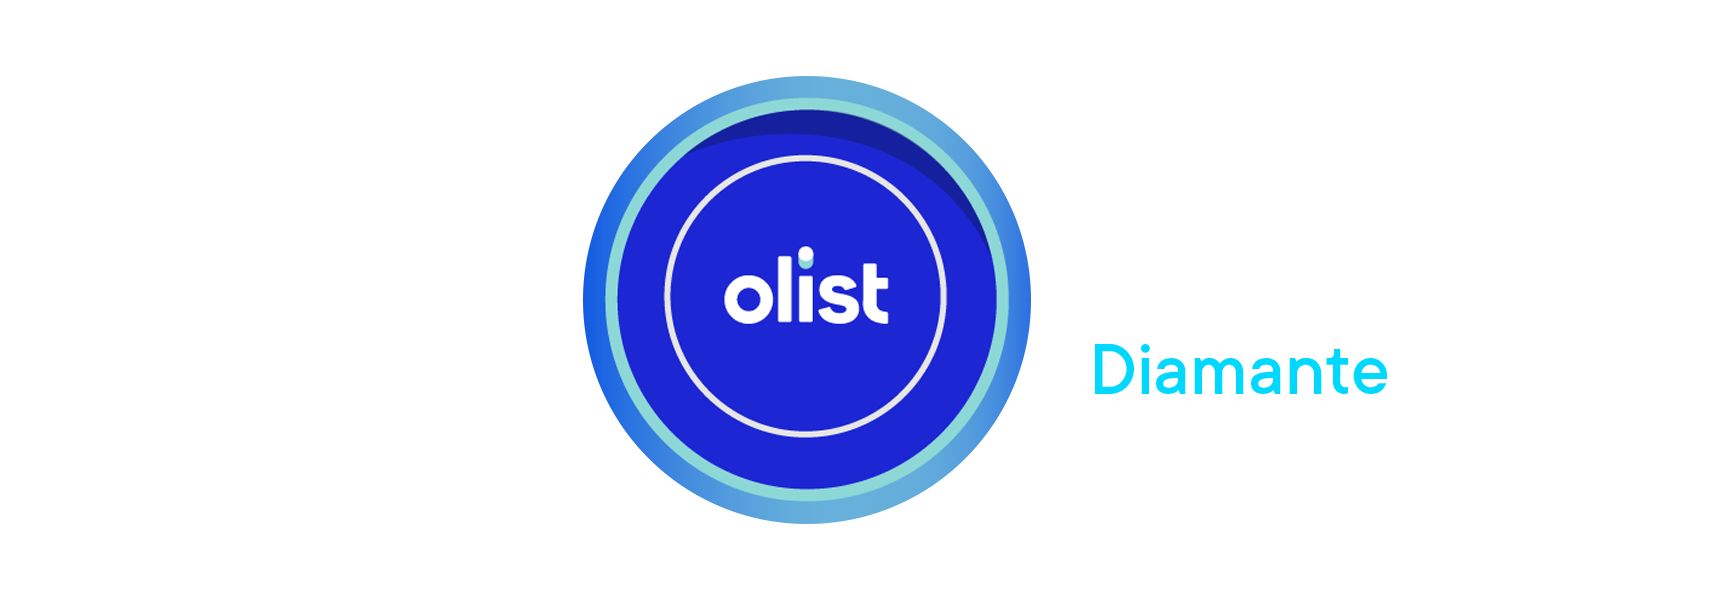
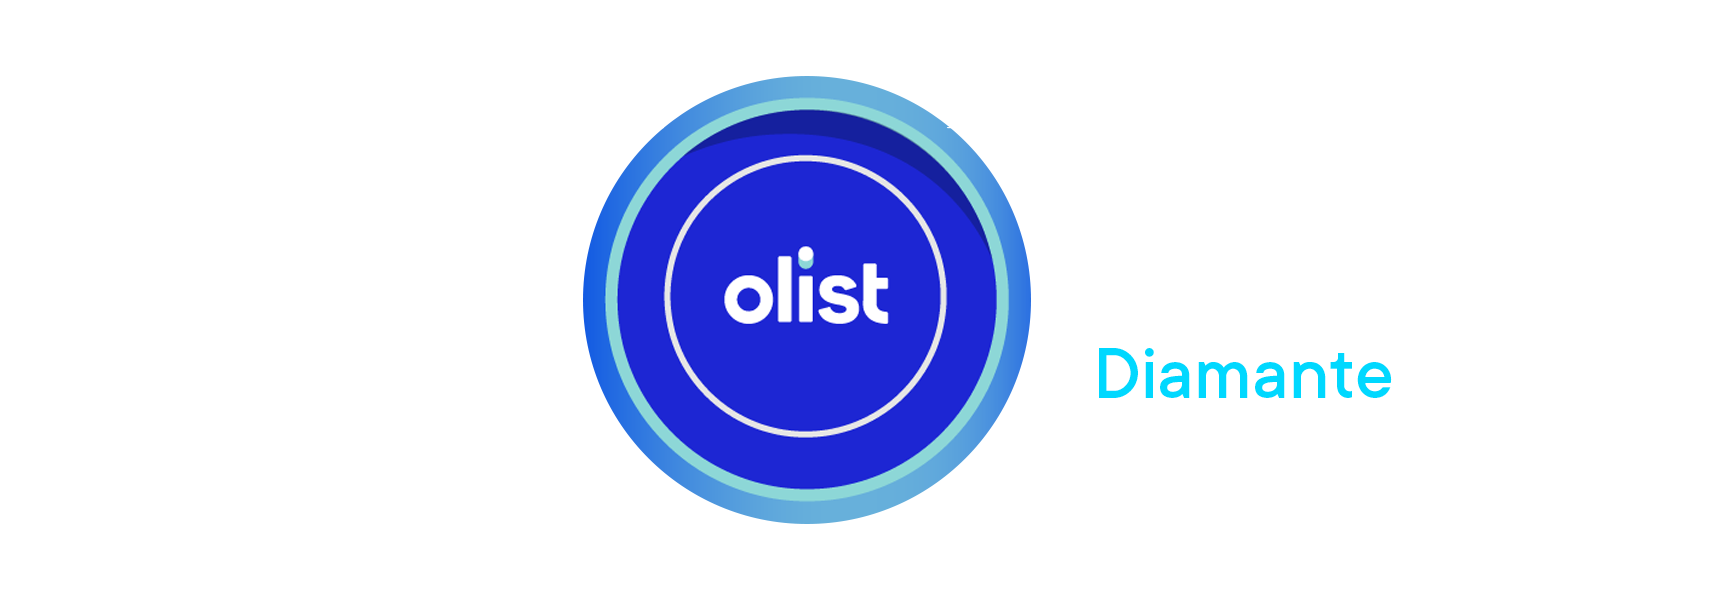
Atualização do site

Changed region(s): [[0.6148, 0.57, 0.83, 0.66]]

diff --git a/index.html b/index.html
@@ -1833,7 +1833,7 @@ body.pre-active{overflow:hidden}
         </div>
         <div class="olist-feat-partner">
           <figure class="olist-feat-seal">
-            <img src="brand/parceirodiamante.png" alt="Consultoria certificada Atlas, parceiro diamante Olist" width="1724" height="600">
+            <img src="brand/parceirodiamante.png?v=2" alt="Consultoria certificada Atlas, parceiro diamante Olist" width="1724" height="600">
           </figure>
         </div>
       </div>
